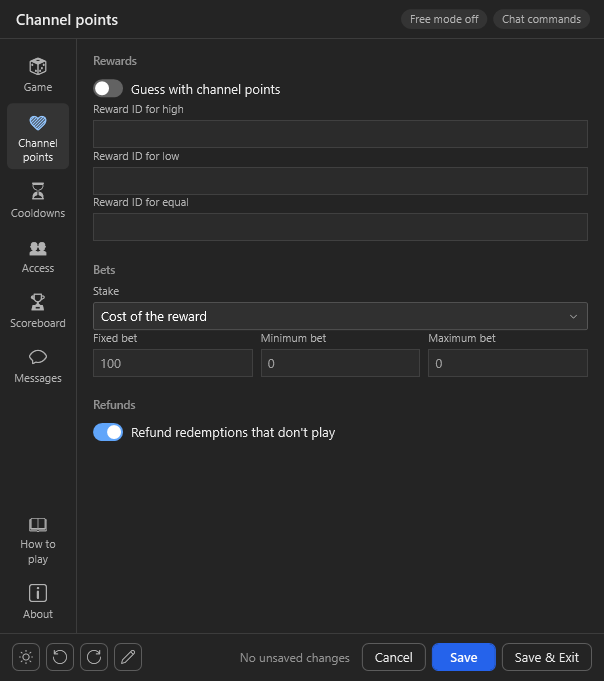
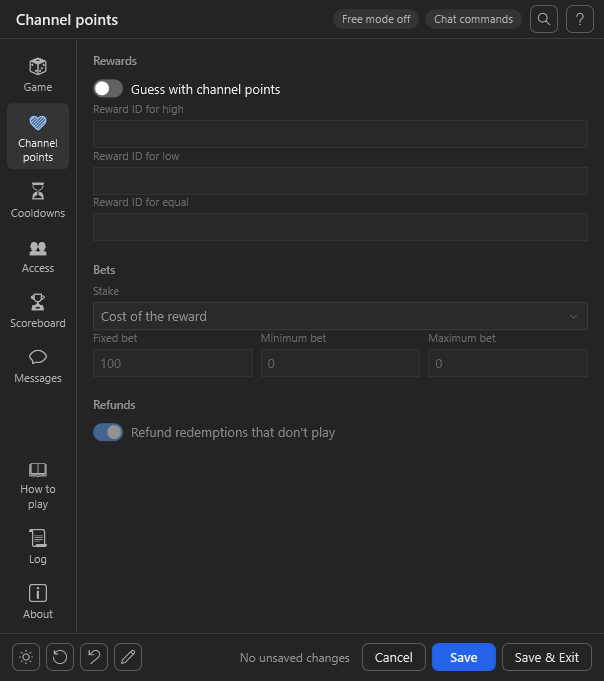
Docs: nine pages and commands, the Log page, outcome words, new screenshots
README, FAQ and setup guide follow the game again: nine window pages and nine commands, a section for the
Log page, LOYALTY POINTS beside Currency Core, the number kept across restarts, renamed commands, ties on the
scoreboard, bets with separators, YouTube's 200 characters and the outcome words. Every screenshot is taken
anew, the Log page's for the first time.

diff --git a/Setup-Guide.md b/Setup-Guide.md
@@ -8,21 +8,24 @@ You get three actions in the group `[HLG] High-Low Game`:
 
 | Action | What it does |
 | --- | --- |
-| `[HLG] - High-Low Game` | The game: `!high`, `!low`, `!equal`, `!highlowsetup` and the channel point rewards |
+| `[HLG] - High-Low Game` | The game: `!high`, `!low`, `!equal`, `!highlowsetup`, `!SetFreeHighLow`, `!EndFreeHighLow` and the channel point rewards |
 | `[HLG] - Scoreboard` | `!hlgsession`, `!hlgalltime`, `!hlgpersonal` |
 | `[HLG] - .Settings` | Opens the settings window from its Test trigger |
 
 Coming from 1.x: import over the old actions. `HLG-Settings.json` stays where it is and is read as before.
+Tested with Streamer.bot 1.0.7.
 
 ## Enable Commands
 
-Commands arrive disabled. Open **Commands**, group `[HLG] High-Low Game`, and enable the seven you play with.
+Commands arrive disabled. Open **Commands**, group `[HLG] High-Low Game`. There are nine: `!high`, `!low`,
+`!equal`, `!highlowsetup`, the three scoreboard commands and the two for Free mode. Enable the ones you play with.
 While you are there:
 
 - `!highlowsetup` is limited to the **Moderators** group. It is optional; the game runs without it.
 - `!SetFreeHighLow` and `!EndFreeHighLow` (Moderators too) switch Free mode from chat. Optional as well; enable
   them if you want them.
 - Every command listens on Twitch, YouTube and Kick. To leave a platform out, untick its source on the commands.
+- A command may be renamed or get aliases; the game knows its commands by their ID.
 
 # Setup
 
@@ -47,7 +50,8 @@ Everything is saved to `Chat Games\High-Low Game\HLG-Settings.json` in the Strea
 - **Equal chance**: how often an `!equal` guess draws the same number again. Every other draw is a free pick from
   1 to 100.
 - **Points variable** and **Points name**: where points are kept and what they are called in chat. With
-  [Currency Core](https://streamup.tips/product/currency-core) installed, its own settings are used instead.
+  [Currency Core](https://streamup.tips/product/currency-core) or [LOYALTY POINTS](https://tawmae.xyz/loyalty-points)
+  installed, its own settings are used instead.
 
 ## Channel points
 
@@ -69,32 +73,38 @@ Twitch only. YouTube and Kick always play with the chat commands.
 | Free, like chat | the channel points spent | the win amount, double on equal | `!equal` costs the win amount |
 
 For a typed bet the reward needs **Require Viewer to Enter Text**. Viewers can type a number, `all`, `half`,
-`third`, `quarter`, `random`, a percentage like `25%` or a short form like `2k`. A bet they cannot afford is
-refused. **Minimum bet** and **Maximum bet** apply to typed and fixed bets; 0 turns them off.
+`third`, `quarter`, `random`, a percentage like `25%` or a short form like `2k`. A plain number is a whole number of
+points, with or without thousands separators (`1500`, `1.500`, `1,500`); `1.5` is refused. A bet they cannot afford
+is refused. **Minimum bet** and **Maximum bet** apply to typed and fixed bets; 0 turns them off.
 
 **Refund redemptions that don't play** gives the channel points back whenever a redemption ends without a
-guess: blocked viewer, cooldown, refused bet or an error. Played redemptions are marked as fulfilled.
+guess: blocked viewer, cooldown, refused bet, an error, or one of the three rewards redeemed while **Guess with
+channel points** is off. Played redemptions are marked as fulfilled.
 
 ## Cooldowns
 
 ![Cooldowns page](Assets/setup-guide/cooldowns.png)
 
-One global and one per-viewer cooldown for every command, in seconds. Saving writes them onto the commands.
-The three guess cooldowns also cover the matching rewards; a redemption that comes in during one is refunded.
+One global and one per-viewer cooldown each for `!high`, `!low`, `!equal` and the three scoreboard commands, in
+seconds. Saving writes them onto the commands. The three guess cooldowns also cover the matching rewards; a
+redemption that comes in during one is refunded. `!highlowsetup` and the Free mode commands have no cooldown here;
+set one on the command itself if you want it.
 
 ## Access
 
 ![Access page](Assets/setup-guide/access.png)
 
-**Blocked users** and everyone in the **Blocked groups** (Streamer.bot's Settings > Groups) are ignored, with no
-reply in chat. Their redemptions are refunded.
+**Blocked users** and everyone in the **Blocked groups** (Streamer.bot's Settings > Groups) are ignored when they
+guess or run `!highlowsetup`, with no reply in chat, not even a cooldown message. Their redemptions are refunded.
+The scoreboard commands stay open to them.
 
 ## Scoreboard
 
 ![Scoreboard page](Assets/setup-guide/scoreboard.png)
 
 How many places `!hlgsession` and `!hlgalltime` list, and whether the broadcaster and the bot account are left
-out. They still play; they are just not ranked.
+out. They still play; they are just not ranked, and asking for a board shows them their own stats. Most wins come
+first; with as many wins, fewer guesses. The same wins in the same number of guesses share a place.
 
 ## Messages
 
@@ -102,6 +112,21 @@ out. They still play; they are just not ranked.
 
 Every chat message with its placeholders and a live preview, plus the sender switches: bot account or
 broadcaster, and `/me` on Twitch. An empty message is not sent.
+
+Under **Outcome words** are the words the outcome message is built from: what `{result}` says after a right and
+a wrong guess, what `{emoji}` shows, `{sign}` for won and lost points, and the **Points part** that
+`{pointsSection}` reads. Translate them along with the message.
+
+A message longer than the platform takes goes out in pieces, cut between words: 200 characters on YouTube, 500 on
+Twitch and Kick.
+
+## Log
+
+![Log page](Assets/setup-guide/log.png)
+
+Every settled guess, every new number from `!highlowsetup` and every refunded redemption, one file per day in
+`Chat Games\Logs\HLG-log-yyyy-MM-dd.txt`. Filter by result, platform and day, or search; a row shows its whole line
+below the table. **Write a log file per day** turns the file off.
 
 ## How to play
 

diff --git a/FAQ.md b/FAQ.md
@@ -4,18 +4,24 @@
 
 ### Do I have to run `!highlowsetup`?
 
-No. A number is drawn for each platform when Streamer.bot starts. `!highlowsetup` draws a new one and announces
-it in chat, for when you want to show viewers where the game stands.
+No. Each platform has its number from the first start on, and it is kept, also when Streamer.bot restarts.
+`!highlowsetup` draws a new one and announces it in chat, for when you want to show viewers where the game stands.
 
 ### The settings window does not open.
 
 Run the **Test** trigger of `[HLG] - .Settings` and check the Streamer.bot log. On the first run it asks to
-download `UIFramework.dll`; if you chose *No*, put the DLL into the folder it opened (`UIFramework\lib\<version>\`)
-and run the trigger again. *Cancel* leaves a warning in the log and nothing else.
+download `UIFramework.dll`; if you chose *No*, it opened `UIFramework\lib`. Put the DLL into a folder named after
+its version there (`UIFramework\lib\<version>\UIFramework.dll`) and run the trigger again. *Cancel* leaves a warning in the log and nothing else.
 
 ### Nobody can play.
 
-The commands are imported disabled. Enable all seven under **Commands**, group `[HLG] High-Low Game`.
+The commands are imported disabled. Enable them under **Commands**, group `[HLG] High-Low Game`: nine in all,
+the seven to play and to show the scoreboards, and `!SetFreeHighLow` / `!EndFreeHighLow` for moderators.
+
+### Can I rename a command or give it an alias?
+
+Yes. The game knows its commands by their ID, so `!high` can become `!hoch`, or get `!h` beside it, in
+Streamer.bot's **Commands** and still plays.
 
 ### I came from version 1. Are my settings gone?
 
@@ -28,7 +34,8 @@ platform switches are gone (untick a command's source instead). Trovo is no long
 ### Where do the points come from?
 
 From the user variable named under **Points variable** (default `points`), the same one
-[Currency Core](https://streamup.tips/product/currency-core) uses. With Currency Core installed, its settings win.
+[Currency Core](https://streamup.tips/product/currency-core) uses. With Currency Core or
+[LOYALTY POINTS](https://tawmae.xyz/loyalty-points) installed, its settings win; the Game page shows which one.
 
 ### Can a viewer lose points with `!high` or `!low`?
 
@@ -79,3 +86,19 @@ Version 1 never recorded wins. Guesses from before still count; wins are counted
 ### What is a session?
 
 Everything since Streamer.bot last started. Session stats are not saved; all-time stats are.
+
+### Two players have the same number of wins. Who is first?
+
+The one who needed fewer guesses. The same wins in the same number of guesses share a place.
+
+## 💬 Messages
+
+### Can the outcome message be in my language?
+
+Yes, all of it. The message itself is on the Messages page, and so are its **Outcome words**: what `{result}`,
+`{emoji}`, `{sign}` and `{pointsSection}` say (*correct*, *incorrect*, *won*, *lost*, ...).
+
+### A long message is cut into two.
+
+On purpose: YouTube takes 200 characters per message, Twitch and Kick 500. A longer message goes out in pieces,
+cut between words.

diff --git a/README.md b/README.md
@@ -24,8 +24,8 @@
 
 ## 📖 Overview
 
-High-Low Game is a chat game for Streamer.bot. There is always a number from 1 to 100 waiting, drawn when
-Streamer.bot starts. Viewers guess whether the next one will be higher, lower or the same, and the answer names
+High-Low Game is a chat game for Streamer.bot. There is always a number from 1 to 100 waiting, drawn once and
+kept, also when Streamer.bot restarts. Viewers guess whether the next one will be higher, lower or the same, and the answer names
 both numbers. The new number is what the next guess is measured against.
 
 ```
@@ -49,8 +49,8 @@ both numbers. The new number is what the next guess is measured against.
 - 🔔 **Hooks for your own actions.** Custom triggers for every won, lost and settled guess with the guess as
   arguments, for a new number and for Free mode, plus `GetLastGuessResult` for an Execute C# Method.
 - ⚙ **One settings window.** Built on [UIFramework for streamer.bot](https://github.com/aaskjer/UIFramework-Streamer.bot),
-  the window the other chat games share: eight pages, light and dark themes, and every chat message with a live
-  preview.
+  the window the other chat games share: nine pages, light and dark themes, and every chat message with a live
+  preview. Even the words of the outcome message (*correct*, *won*, ...) are yours to change.
 
 <p align="center">
   <img src="https://github.com/aaskjer/High-Low-Game/blob/main/Assets/readme/settings-game.png?raw=true" alt="The Game page of the settings window" width="49%">
@@ -62,7 +62,7 @@ both numbers. The new number is what the next guess is measured against.
 ## Credits
 
 - **Author:** [aaskjer on Twitch](https://twitch.tv/aaskjer) · [aaskjer.github.io](https://aaskjer.github.io/)
-- **Built for:** [Streamer.bot](https://streamer.bot) by [nate1280](https://www.patreon.com/c/nate1280/home)
+- **Built for:** [Streamer.bot](https://streamer.bot) by [nate1280](https://www.patreon.com/c/nate1280/home), tested with 1.0.7
 - **Works with:** [Currency Core by StreamUP](https://streamup.tips/product/currency-core) · [LOYALTY POINTS by tawmae](https://tawmae.xyz/loyalty-points)
 - **Thanks:** YOU ♡
 
